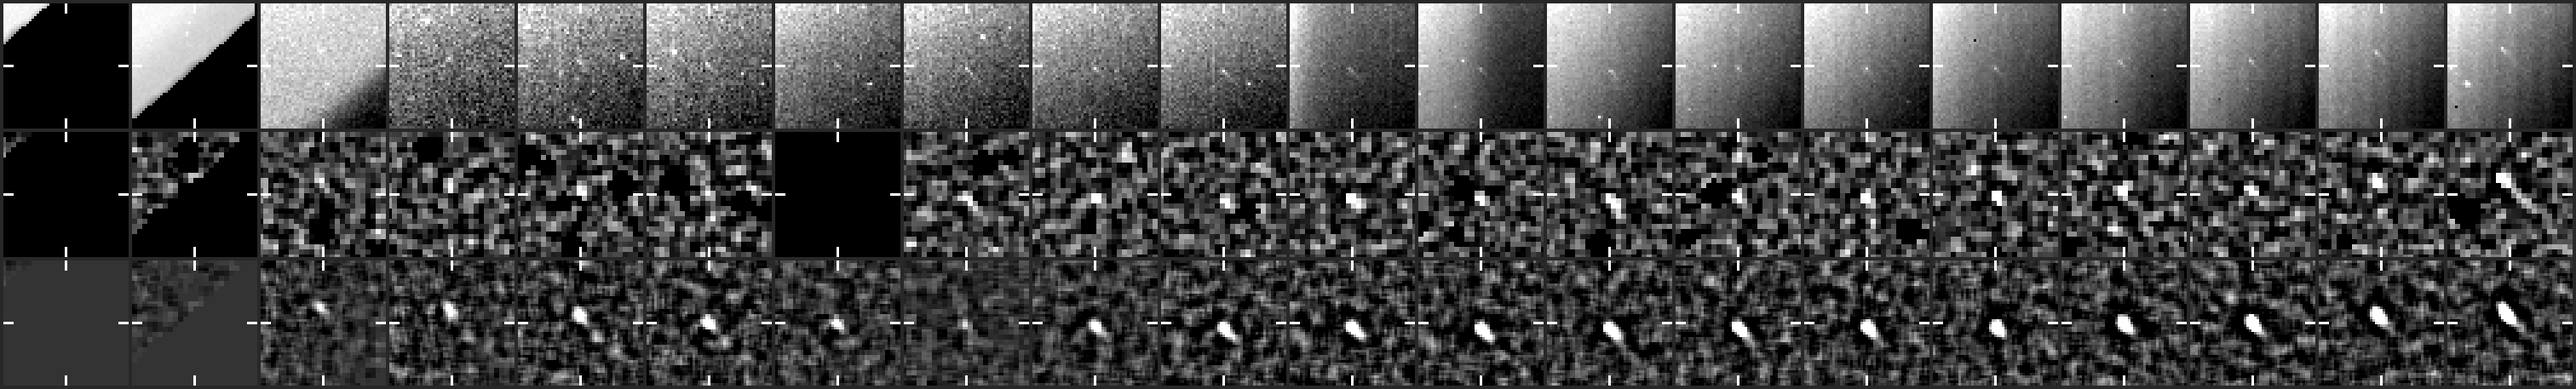
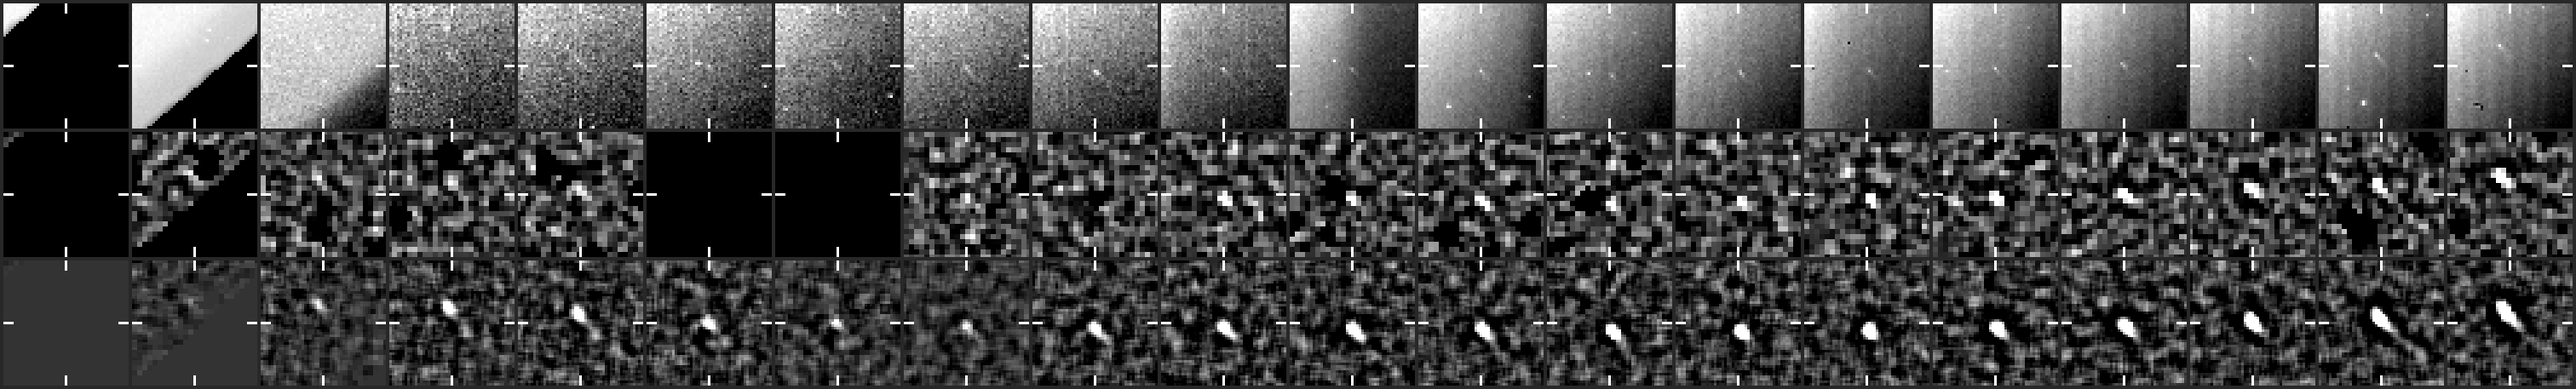
Live find 20261109T0130_1740_1790: hunter's package

diff --git a/results/ccor1/live-finds/20261109T0130_1740_1790/README.md b/results/ccor1/live-finds/20261109T0130_1740_1790/README.md
@@ -1,10 +1,10 @@
 # CCOR-1 candidate 20261109T0130_1740_1790
 
-**51 frames, 2026-11-09 01:30 to 15:30 UTC, peak 44 sigma, brightening.**
+**56 frames, 2026-11-09 01:30 to 16:45 UTC, peak 50 sigma, brightening.**
 
 - Detected by the kreutz shift-and-stack search (8 frames stacked along the fitted motion); status candidate, alert tier since 02:30 UTC.
-- Motion (-6.6, -5.0) px per 15-min frame, 8.3 px/frame.
-- Last position 669 px from the Sun at position angle -57 deg, heading 20 deg off the Sun direction (Kreutz comets in CCOR-1 arrive from the lower right, position angle -10 to -45 deg, and head within ~20 deg of the Sun).
+- Motion (-6.6, -5.1) px per 15-min frame, 8.3 px/frame.
+- Last position 624 px from the Sun at position angle -58 deg, heading 20 deg off the Sun direction (Kreutz comets in CCOR-1 arrive from the lower right, position angle -10 to -45 deg, and head within ~20 deg of the Sun).
 - Matches NEW USER's CCOR-1 report `report_nu_20261109090058` (posted 2026-11-09T14:00+00:00; our alert came 11.1 h before it; we were following it 11.6 h before the post).
 
 ## Movie
@@ -86,6 +86,11 @@ The last column is what the track became here on that frame: spark (two bright h
 | 2026-11-09 | 1500 | 1382 | 1518 | 42.3 |  |
 | 2026-11-09 | 1515 | 1376 | 1514 | 42.3 |  |
 | 2026-11-09 | 1530 | 1368 | 1508 | 43.8 |  |
+| 2026-11-09 | 1545 | 1360 | 1500 | 41.6 |  |
+| 2026-11-09 | 1600 | 1354 | 1494 | 42.2 |  |
+| 2026-11-09 | 1615 | 1348 | 1490 | 47.0 |  |
+| 2026-11-09 | 1630 | 1340 | 1484 | 49.6 |  |
+| 2026-11-09 | 1645 | 1332 | 1478 | 49.7 |  |
 
 Form layout (HHMM x y):
 
@@ -141,6 +146,11 @@ Form layout (HHMM x y):
 1500 1382 1518
 1515 1376 1514
 1530 1368 1508
+1545 1360 1500
+1600 1354 1494
+1615 1348 1490
+1630 1340 1484
+1645 1332 1478
 ```
 
 ## Movie frames
@@ -149,45 +159,45 @@ Sigma inside the ring on the fitted position vs the brightest 0.1% of the whole 
 
 | frame | ring | tail | |
 |---|---|---|---|
-| 20261109T003025 | 1.5 | 5.1 |  |
-| 20261109T004525 | 3.2 | 5.1 |  |
-| 20261109T010025 | 4.7 | 5.2 |  |
-| 20261109T011525 | 6.2 | 5.2 |  |
-| 20261109T013025 | 9.4 | 5.2 | hit |
-| 20261109T014525 | 12.1 | 5.2 | hit |
-| 20261109T020025 | 14.0 | 5.1 | hit |
-| 20261109T021525 | 17.7 | 5.3 | hit |
-| 20261109T023025 | 19.2 | 5.2 | hit |
-| 20261109T024525 | 17.7 | 5.3 | hit |
-| 20261109T030025 | 19.4 | 5.2 | hit |
-| 20261109T031525 | 20.2 | 5.2 | hit |
+| 20261109T003025 | 1.5 | 5.2 |  |
+| 20261109T004525 | 3.5 | 5.2 |  |
+| 20261109T010025 | 4.5 | 5.0 |  |
+| 20261109T011525 | 7.0 | 5.1 |  |
+| 20261109T013025 | 9.5 | 5.1 | hit |
+| 20261109T014525 | 12.2 | 5.1 | hit |
+| 20261109T020025 | 14.1 | 5.1 | hit |
+| 20261109T021525 | 17.8 | 5.2 | hit |
+| 20261109T023025 | 19.0 | 5.2 | hit |
+| 20261109T024525 | 17.5 | 5.2 | hit |
+| 20261109T030025 | 19.2 | 5.2 | hit |
+| 20261109T031525 | 20.2 | 5.1 | hit |
 | 20261109T033025 | 21.2 | 5.2 | hit |
 | 20261109T034525 | 18.9 | 5.2 | hit |
-| 20261109T040025 | 20.4 | 5.2 | hit |
-| 20261109T041525 | 16.7 | 4.9 |  |
-| 20261109T043025 | 14.0 | 4.6 |  |
+| 20261109T040025 | 20.4 | 5.1 | hit |
+| 20261109T041525 | 16.7 | 4.8 |  |
+| 20261109T043025 | 14.0 | 4.5 |  |
 | 20261109T044525 | 13.5 | 4.1 |  |
 | 20261109T050025 | 10.5 | 3.7 |  |
 | 20261109T051525 | 7.6 | 3.3 |  |
 | 20261109T053025 | 7.1 | 3.3 |  |
-| 20261109T054525 | 6.7 | 3.3 | hit |
-| 20261109T060025 | 6.5 | 3.3 | hit |
-| 20261109T061525 | 9.9 | 3.7 | hit |
-| 20261109T063025 | 13.0 | 4.1 | hit |
-| 20261109T064525 | 16.8 | 4.4 | hit |
-| 20261109T070025 | 17.9 | 4.8 | hit |
-| 20261109T071525 | 22.1 | 5.1 | hit |
+| 20261109T054525 | 9.7 | 3.3 | hit |
+| 20261109T060025 | 9.5 | 3.4 | hit |
+| 20261109T061525 | 12.9 | 3.7 | hit |
+| 20261109T063025 | 15.9 | 4.1 | hit |
+| 20261109T064525 | 19.8 | 4.5 | hit |
+| 20261109T070025 | 20.9 | 4.8 | hit |
+| 20261109T071525 | 25.1 | 5.0 | hit |
 | 20261109T073025 | 25.5 | 5.1 | hit |
-| 20261109T074525 | 25.6 | 5.2 | hit |
+| 20261109T074525 | 25.6 | 5.1 | hit |
 | 20261109T080025 | 25.0 | 5.1 | hit |
-| 20261109T081525 | 25.7 | 5.2 | hit |
+| 20261109T081525 | 25.7 | 5.1 | hit |
 | 20261109T083025 | 26.7 | 5.2 | hit |
-| 20261109T084525 | 28.5 | 5.2 | hit |
+| 20261109T084525 | 28.5 | 5.1 | hit |
 | 20261109T090025 | 27.9 | 5.1 | hit |
 | 20261109T091525 | 27.7 | 5.2 | hit |
 | 20261109T093025 | 28.4 | 5.2 | hit |
 | 20261109T094525 | 30.9 | 5.0 | hit |
-| 20261109T100025 | 33.0 | 5.1 | hit |
+| 20261109T100025 | 33.0 | 5.0 | hit |
 | 20261109T101525 | 34.8 | 5.0 | hit |
 | 20261109T103025 | 36.4 | 4.9 | hit |
 | 20261109T104525 | 30.8 | 5.0 | hit |
@@ -205,10 +215,15 @@ Sigma inside the ring on the fitted position vs the brightest 0.1% of the whole 
 | 20261109T134525 | 47.2 | 5.3 | hit |
 | 20261109T140025 | 48.6 | 5.2 | hit |
 | 20261109T141525 | 48.5 | 5.2 | hit |
-| 20261109T143025 | 49.2 | 5.3 | hit |
-| 20261109T144525 | 49.8 | 5.3 | hit |
+| 20261109T143025 | 49.2 | 5.2 | hit |
+| 20261109T144525 | 49.8 | 5.2 | hit |
 | 20261109T150025 | 51.1 | 5.2 | hit |
 | 20261109T151525 | 49.3 | 5.3 | hit |
 | 20261109T153025 | 52.4 | 5.2 | hit |
+| 20261109T154525 | 50.6 | 5.2 | hit |
+| 20261109T160025 | 48.0 | 5.2 | hit |
+| 20261109T161525 | 50.3 | 5.2 | hit |
+| 20261109T163025 | 53.4 | 5.2 | hit |
+| 20261109T164525 | 56.9 | 5.1 | hit |
 
-*Written 2026-11-09 16:11 UTC.*
+*Written 2026-11-09 17:14 UTC.*
